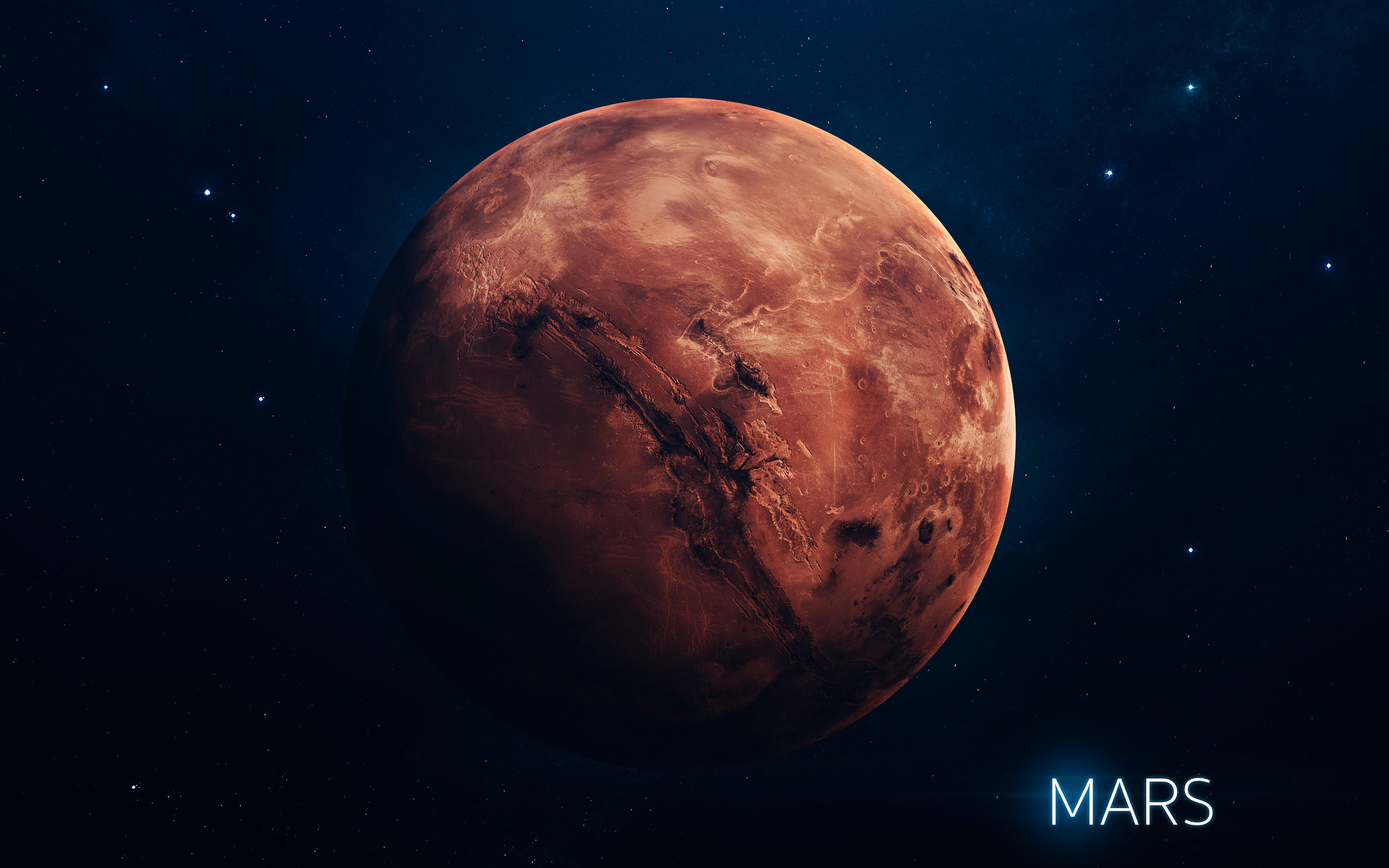
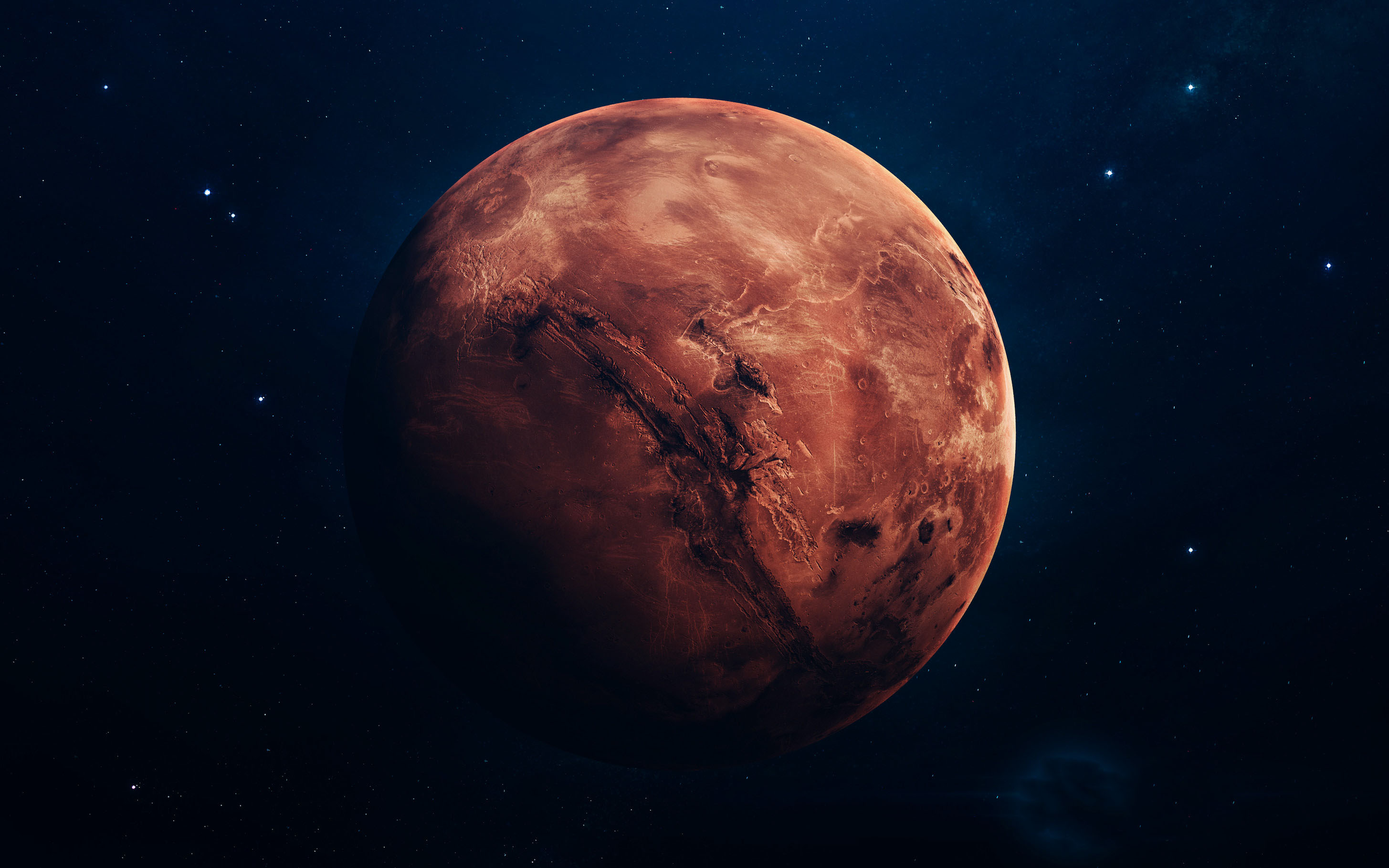
отредактировал исходники в фш и перезалил в проэкт

Changed region(s): [[0.7423, 0.8625, 0.8969, 0.9857]]

diff --git a/index.html b/index.html
@@ -36,6 +36,7 @@
     </div>
 
   </div>
+  <script src="script.js"></script>
 </body>
 
 </html>
